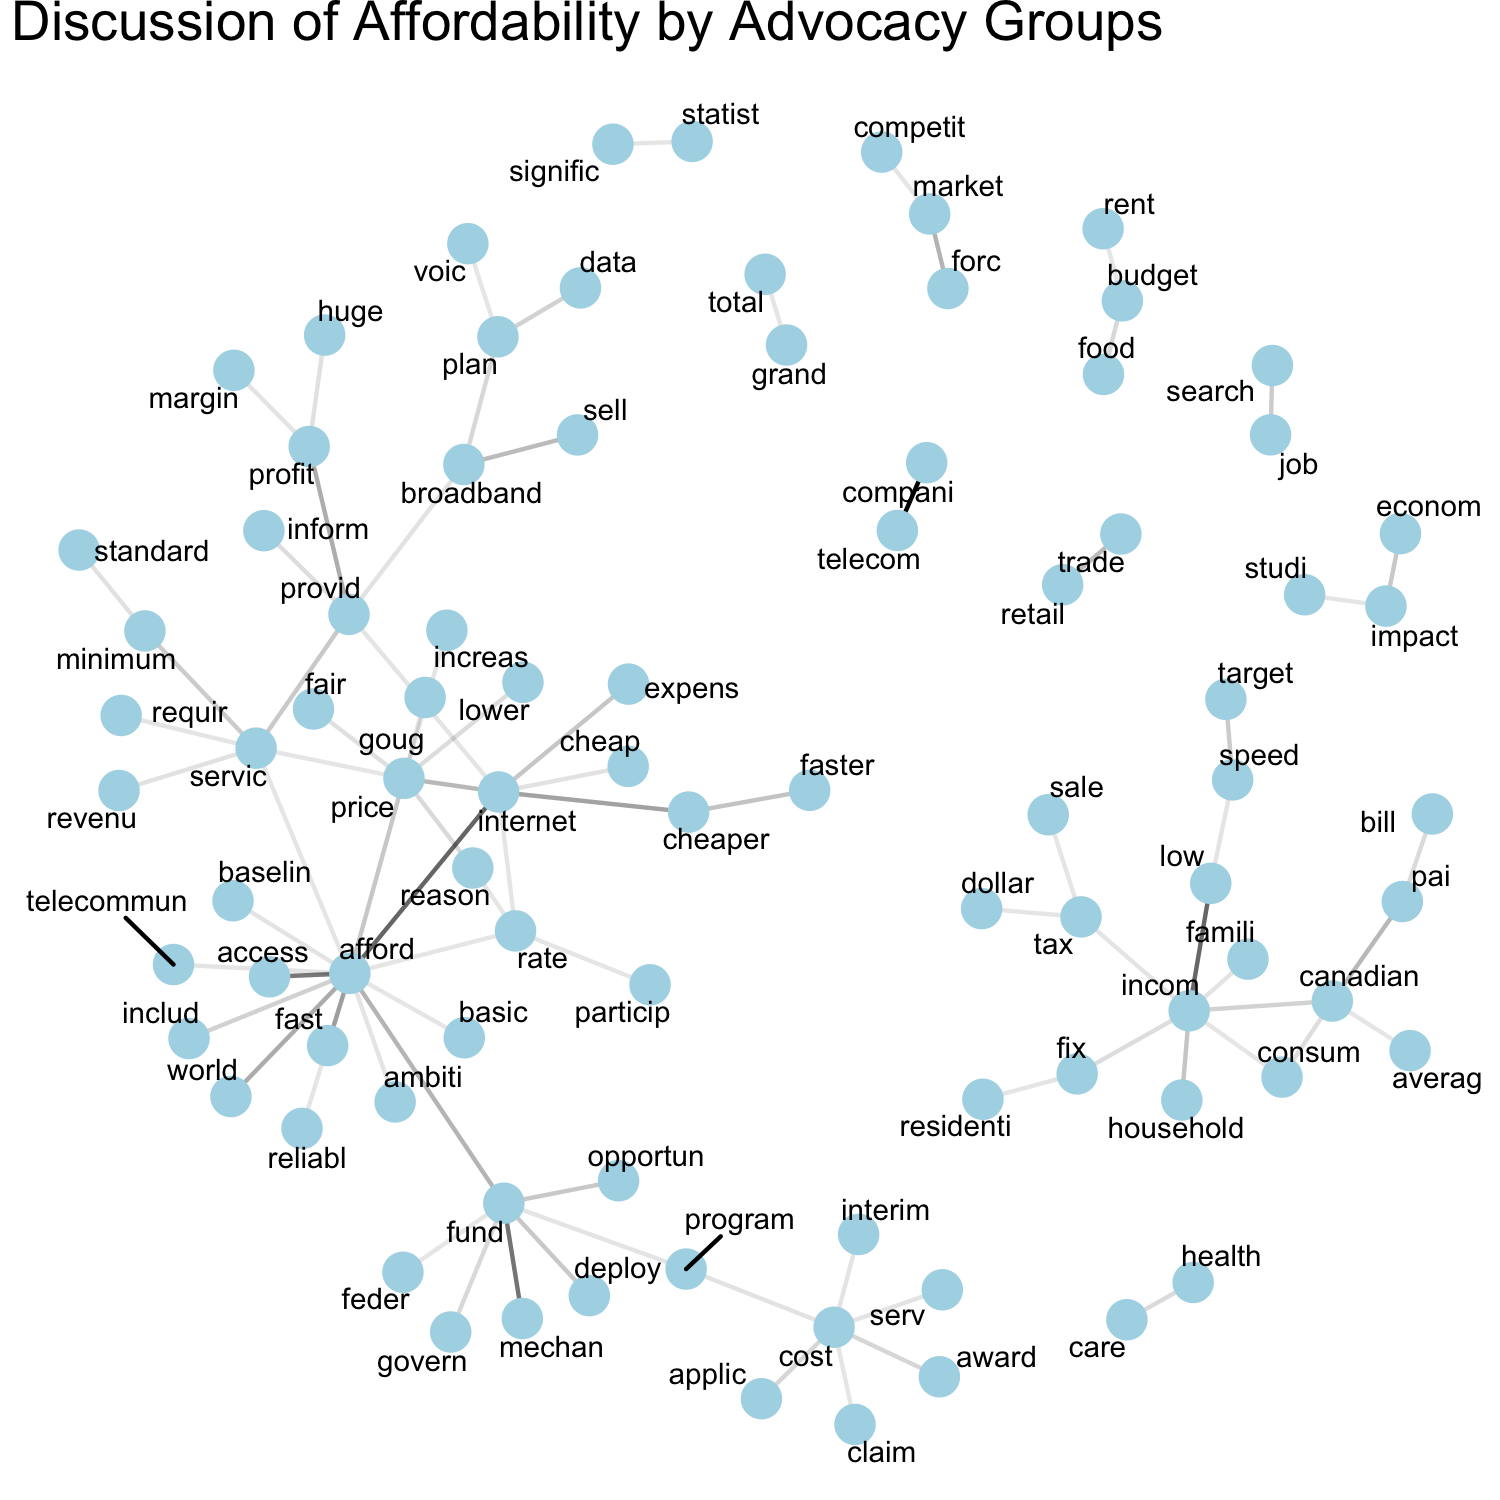
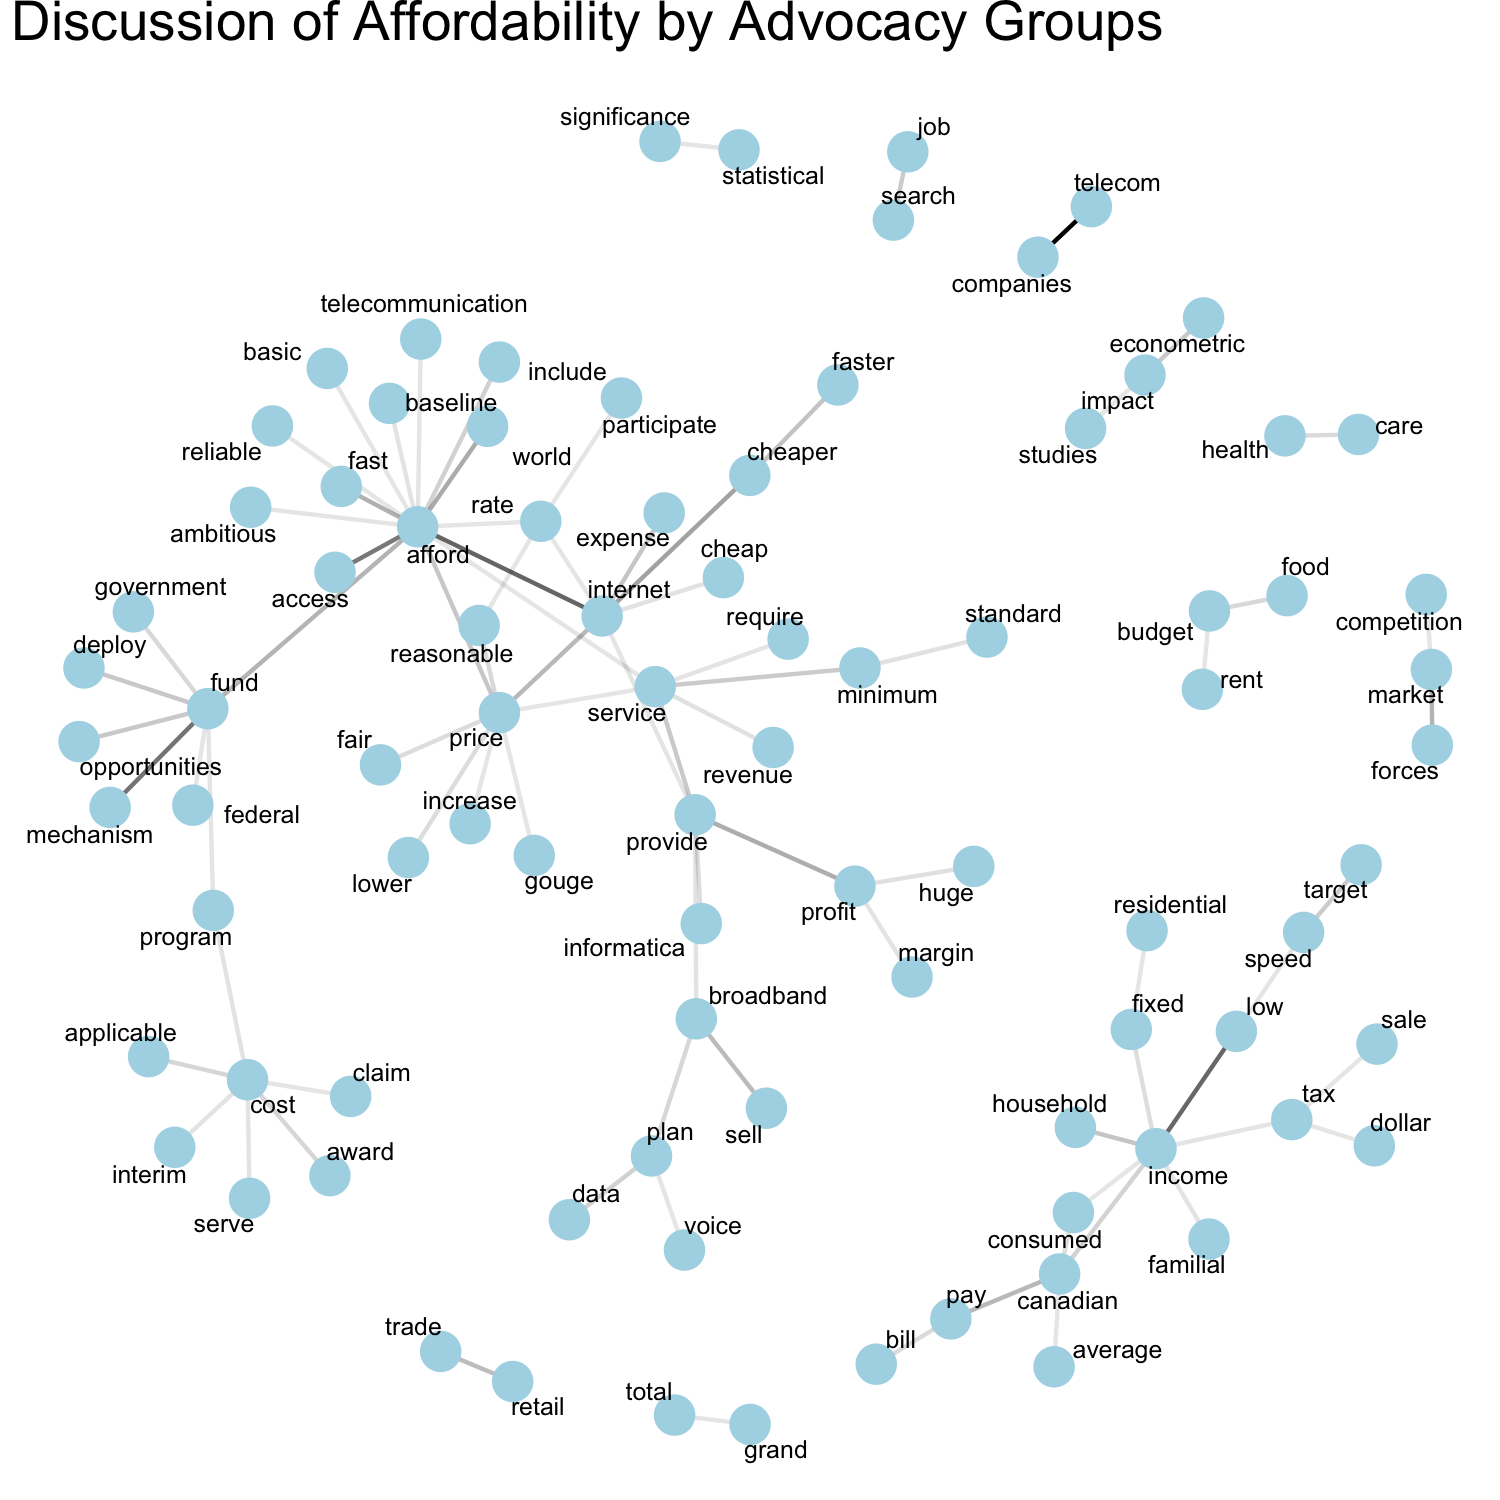
Completed stems

diff --git a/notebooks/Affordability_doc2vec.md b/notebooks/Affordability_doc2vec.md
@@ -4,6 +4,8 @@
 
 This document will outline both the methods used and the organizational response to the question put forward by the CRTC concerning whether or not internet access in Canada is affordable.
 
+NOTE: The completed stems do okay, but sometimes something like "funding" becomes "funded" so keep that in mind when reading the bigrams below. Or my personal favorite "information" sometimes becomes "informatica".
+
 # Doc2vec
 
 [Doc2vec](https://radimrehurek.com/gensim/models/doc2vec.html) is a machine learning algorithm which can be used to learn the semantic meaning or context of various lengths of text. This can be useful in order to find lengths of text which express a similar sentiment, or discuss similar topics. This is done by transforming each unique length of text, either sentences, paragraphs, or entire documents, into a vector representation of the text. Once each length of text has been vectorized, these vectors are then used to train a shallow three layer neural network (input, hidden and output), allowing the network to 'learn' the context expressed in each length of text. Once the neural network is trained, it is then possible to find the lengths of text which are most similar to each other based on their vector inner product from the output of the neural network. This method also has the advantage that you can find lengths of text that the network was trained on that are most similar to a length of text of your choosing -- in other words `doc2vec` provides an excellent search tool for concepts or ideas within a corpus of text.
@@ -23,7 +25,7 @@ The algorithm used to find similar sentences within a set of documents contains 
 
 ![alt-text](images/histogram_cdf.png)
 
-Using this algorithm, around 4000 sentences containing something conceptually similar to "affordability of broadband internet access" are found within the documents. Another interesting artifact of this analysis is that the histogram formed is functionally similar to an inverse exponential function, meaning that the "similarity" of sentences to our search term drop off exponentially with respect to how often they appear as the most similar terms. Using this histogram, we can rank tagged sentences by how frequently they appeared in the Monte Carlo analysis.
+Using this algorithm, around 4000 sentences containing something conceptually similar to "affordability of broadband internet access" are found within the documents. Certainly, semantic relevance to the neural network may be different from semantic relevance as found by a human. Another interesting artifact of this analysis is that the histogram formed is functionally similar to an inverse exponential function, meaning that the "similarity" of sentences to our search term drop off exponentially with respect to how often they appear as the most similar terms. Using this histogram, we can rank tagged sentences by how frequently they appeared in the Monte Carlo analysis.
 
 Once each sentence was tagged, in order to understand the discussions taking place, we then gathered two sentences above and below the sentence tagged by `doc2vec`, ensured that there was no overlap between two sentences that were found near-adjacent to avoid repeated data, and used those fragments of text in the following analysis.
 
@@ -41,7 +43,8 @@ $N$-grams can be visualized as a web of words, where bigrams that share common w
 ### All Groups
 
 #### Unfiltered Bigram Web
-To get a sense of the common issues surrounding the question of affordability it is instructive to see the most common word bigrams that appear in the entire corpus of the 1105 segments of text. Using this information, we can judge the most common phrases used in the entire corpus. This is shown in the image below, displaying only the bigrams which appear $N>75$ times. We have also applied a stemmer to the word pairs in order to ensure that different conjugations are only counted as one. For example the word "application" or "applies" would both be mapped to a root form of "appli". Or the word "service" or "services" would both be mapped to "serv".
+
+To get a sense of the common issues surrounding the question of affordability it is instructive to see the most common word bigrams that appear in the entire corpus of the 1105 segments of text. Using this information, we can judge the most common phrases used in the entire corpus. This is shown in the image below, displaying only the bigrams which appear $N>70$ times. We have also applied a stemmer to the word pairs in order to ensure that different conjugations are only counted as one. However, after word pairs were sorted we "completed" the stems once again. We note however, that this process isn't perfect and sometimes the completed stems aren't the most 'logical' choice. For example, on occasion information will appear as 'informatica' etc.
 
 ![alt-text](images/all_doc2vec_afford_no_filter.png)
 
@@ -57,12 +60,12 @@ In order to gain insight into the discussion advocacy organizations are having s
 ```
 cost, affordability, price and expensive
 ```
-which should return to us a highly relevant bigram web. Shown below is the common word pairs from all the documents using the above word embedding filter which we have only shown bigrams with frequency $N \geq 30$.
+which should return to us a highly relevant bigram web. Shown below is the common word pairs from all the documents using the above word embedding filter which we have only shown bigrams with frequency $N \geq 25 $.
 
 
 ![alt-text](images/all_doc2vec_afford_filter.png)
 
-This provides us with a much more succinct and relevant overview of the common terms used in regards to a discussion of internet affordability. The most common terms within this subset of documents surround funding, afford(ability) and internet. A secondary cluster of words surrounding broadband and provide show us another secondary discussion taking place. It is tempting to take the "top-down" view of this information and begin trying to interpret this plot beyond a statement of common discussion points. However, it will be more useful to filter the text segments by organizational category, and discover which topics are important to each group, rather than making generalizations based on the entire discussion.
+This provides us with a much more succinct and relevant overview of the common terms used in regards to a discussion of internet affordability. The most common terms within this subset of documents surround fund(ing), afford(ability) and internet. A secondary cluster of words surrounding broadband and provide show us another secondary discussion taking place. It is tempting to take the "top-down" view of this information and begin trying to interpret this plot beyond a statement of common discussion points. However, it will be more useful to filter the text segments by organizational category, and discover which topics are important to each group, rather than making generalizations based on the entire discussion. I am hesitant to interpret this further than stating that these are the most common word pairs in the discussion around affordability in the documents submitted to the CRTC.  
 
 ### Advocacy Organizations
 
@@ -77,11 +80,11 @@ Where this plot is eerily similar to the plot of most common terms used by all o
 In this case we have filtered down to words which share a cosine similarity to the above of greater than 0.6, and display only bigram pairs that appear $N \geq 16$ times within the text supplied by the responses from advocacy groups.
 
 
-![alt-text](images/advocacy_doc2vec_afford_filter.png)
+![alt-text](images/advocacy_doc2vec_afford_filter.png)  
 
-The above figure shows us the most common terms used by advocacy groups which directly relate to the concept of affordability, filtered from the segments related in context to affordability of internet access.  In the largest cluster of word pairs we see that the advocacy groups use language suggesting discussion relevant to consumer-end pricing of internet access and government funding mechanisms. Using this plot it may be reasonable to state that the discussion concerning affordability by advocacy groups are centered around ensuring that internet access is affordable for the consumer. There is also significant discussion of government funding programs, which either center around funding for new infrastructure, or for Canadian consumers to have access to the internet. However, as we lose all sense of context from a figure such as this, the discussion about government funding could either be in terms of subsidies to expand existing infrastructure, government funding for non-profit organizations, or financial assistance for low-income households.
+The above figure shows us the most common terms used by advocacy groups which directly relate to the concept of affordability, filtered from the segments related in context to affordability of internet access.  In the largest cluster of word pairs we see that the advocacy groups use language suggesting discussion relevant to consumer-end pricing of internet access and government funding mechanisms. Using this plot it may be reasonable to state that the discussion concerning affordability by advocacy groups are centered around ensuring that internet access is affordable for the consumer. There is also significant discussion of government funding programs, which either center around funding for new infrastructure, or for Canadian consumers to have access to the internet. Interestingly the most frequent bigrams from the advocacy groups are "afford <-> internet", "fund(ing) <-> opportunities", "low <-> income" and "telecom <-> companies", which would indicate that the advocacy groups had significant discussion around these topics. However, we lose all sense of context surrounding interesting word pairs in a figure such as this. For example the discussion about government funding could be in terms of subsidies to expand existing infrastructure, government funding for non-profit organizations, or financial assistance for low-income households.
 
-In essence these results aren't necessarily surprising. Advocacy groups seem to be primarily concerned with the affordability and access from the perspective of Canadian consumers, with common word pairs such as "price" and "gouge" and many common word pairs around "afford".  There are also many common bigrams relevant to government funding programs. Essentially what we're finding is that the discussion relevant to affordability by advocacy groups is a discussion of affordability from their perspective.
+In essence these results aren't necessarily surprising. Advocacy groups seem to be primarily concerned with the affordability and access from the perspective of Canadian consumers, with common word pairs such as "price" and "gouge" and many common word pairs around "afford".  There are also many common bigrams relevant to government funding programs. Essentially this shows the discussion relevant to affordability by advocacy groups is a discussion centered around affordability issues important to the interests of advocacy groups. In other words, advocacy groups use language surrounding affordability that would suggest a consumer-centric point of view.
 
 ## Government Groups
 
@@ -91,7 +94,7 @@ The responses of government groups in regards to sentences that are semantically
 
 Discussion by government groups surrounding affordability is noticeably different than that of the advocacy groups with respect to frequent word pairs. In terms of government discussion surrounding affordability there exist many frequent word pairs surrounding revenues and government funding mechanisms. Drawing our attention to the largest cluster around the word "prodid (provide)" we see that during the discussion of affordability by government groups that there are many common word pairs concerning providing access, service, consumers and so forth. Government organizations seem to be using language focused around, funding, revenues, and subsidies, as well as language surrounding the issues of services provided.
 
-Again this isn't necessarily surprising. Government groups discuss affordability in a way that is relevant to them in terms of both providing or receiving funding, and affordability and access with respect to their constituents.
+Again this isn't necessarily surprising. Government groups discuss affordability as it is relevant to them: in terms of both providing or receiving funding, and affordability and access with respect to their constituents.
 
 
 ## Telecom incumbents
@@ -110,9 +113,11 @@ The discussion of the cable incumbent groups surrounding affordability is shown 
 In the case of the cable incumbents the language used surrounding the issue of affordability again is surrounding affordability through the lens of the particular incumbent. There is popular bigram pairs surrounding the word "market" with common pairs in terms of "forc (force(s))" and "competit (competition)" as well as retail. There is also a small cluster surrounding the word "fund" with respect to receive and government. Much like the telecom incumbents, the discussion of affordability by cable incumbents is primarily focused on what is affordable in terms of the services they provide.
 
 ## Small Incumbents
-Showing bigrams with frequency $N \geq 1$ from 33 text segments. Honestly I don't think there's enough here to warrant any discussion. There's not much to see. It might be smarter to group these with cable or telecoms? oR just ignore them completely as this doesn't add anything to the discussion that we haven't already talked about.
+Showing bigrams with frequency $N \geq 2$ from 33 text segments. Honestly I don't think there's enough here to warrant any discussion. There's not much to see. It might be smarter to group these with cable or telecoms? oR just ignore them completely as this doesn't add anything to the discussion that we haven't already talked about.
 
 ![alt-text](images/small_doc2vec_afford_filter.png)
+
+Although I note that there is an interesting popular bigram between cost and service, which would indicate that small incumbents talk about "cost of service" with great frequency (16 times in all)
 
 ## 'Other' groups
 Showing bigrams with frequency $N \geq 3$ from 80 segments of text found by `doc2vec`.
@@ -122,7 +127,7 @@ The submissions contained within this group come primarily from individual respo
 
 
 ## Other incumbents
-This shows bigrams with frequency $N\geq 3$ from 155 segments found by `doc2vec`. Honestly there's not much new going on here either that we haven't already seen before. Other incumbents seem to have a discussion of affordability that is similar to telecoms and cable companies.
+This shows bigrams with frequency $N\geq 4$ from 155 segments found by `doc2vec`. Honestly there's not much new going on here either that we haven't already seen before. Other incumbents seem to have a discussion of affordability that is similar to telecoms and cable companies.
 ![alt-text](images/otherinc_doc2vec_afford_filter.png)
 
 
@@ -130,4 +135,4 @@ This shows bigrams with frequency $N\geq 3$ from 155 segments found by `doc2vec`
 
 By using `doc2vec` as a search tool to locate sentences which contain content semantically similar to the affordability of broadband internet access it was possible automatically identify segments of text from the CRTC documents with some mention of affordability. It was then possible to further refine these results by using `text2vec` word embeddings in order to further isolate the language used by different invested organizations surrounding the issue of affordability of broadband access in Canada. From these results it was possible to identify that the language used surrounding affordability is significantly different depending on which group is identified. Each group's discussion of affordability seems to be focused around what affordability is to them. Advocacy organizations discuss affordability from the perspective of Canadian consumers, telecom and cable companies discuss affordability from the perspective of running a business, and government groups discuss affordability in terms of receiving or granting funding as well as detailing services provided.
 
-In essence we've discovered that there are essentially four different discussions of affordability taking place within the CRTC documents, where the issues surrounding affordability are different depending on who you ask. This result is not at all surprising due to the nature of `doc2vec`, as we're finding statements of semantic or contextual similarity. In this regard, each group discusses issues similar to affordability as it means to them. Businesses are concerned about affordability in terms of revenues and market forces, governments are concerned about affordability in terms of funding and service provided, and advocacy groups are concerned about affordability in terms of the cost to the consumer. From this perspective, this analysis has showcased the language used surrounding the issue affordability as it means to each group. While this certainly does not answer whether or not internet access in Canada is affordable, what it is able to clean is potentially important discussion points from every group surrounding the idea of affordability from a larger scope. Such analysis may prove to be useful in understanding what issues each group have surrounding affordability, and may make it more straight forward to understand the requirements of each group in order to find a price range which maximally satisfies every invested party. 
+In essence we've discovered that there are essentially four different discussions of affordability taking place within the CRTC documents, where the issues surrounding affordability are different depending on who you ask. This result is not at all surprising due to the nature of `doc2vec`, as we're finding statements of semantic or contextual similarity. In this regard, each group discusses issues similar to affordability as it means to them. Businesses are concerned about affordability in terms of revenues and market forces, governments are concerned about affordability in terms of funding and service provided, and advocacy groups are concerned about affordability in terms of the cost to the consumer. From this perspective, this analysis has showcased the language used surrounding the issue affordability as it means to each group. While this certainly does not answer whether or not internet access in Canada is affordable, what it is able to clean is potentially important discussion points from every group surrounding the idea of affordability from a larger scope. Such analysis may prove to be useful in understanding what issues each group have surrounding affordability, and may make it more straight forward to understand the requirements of each group in order to find a price range which maximally satisfies every invested party.
